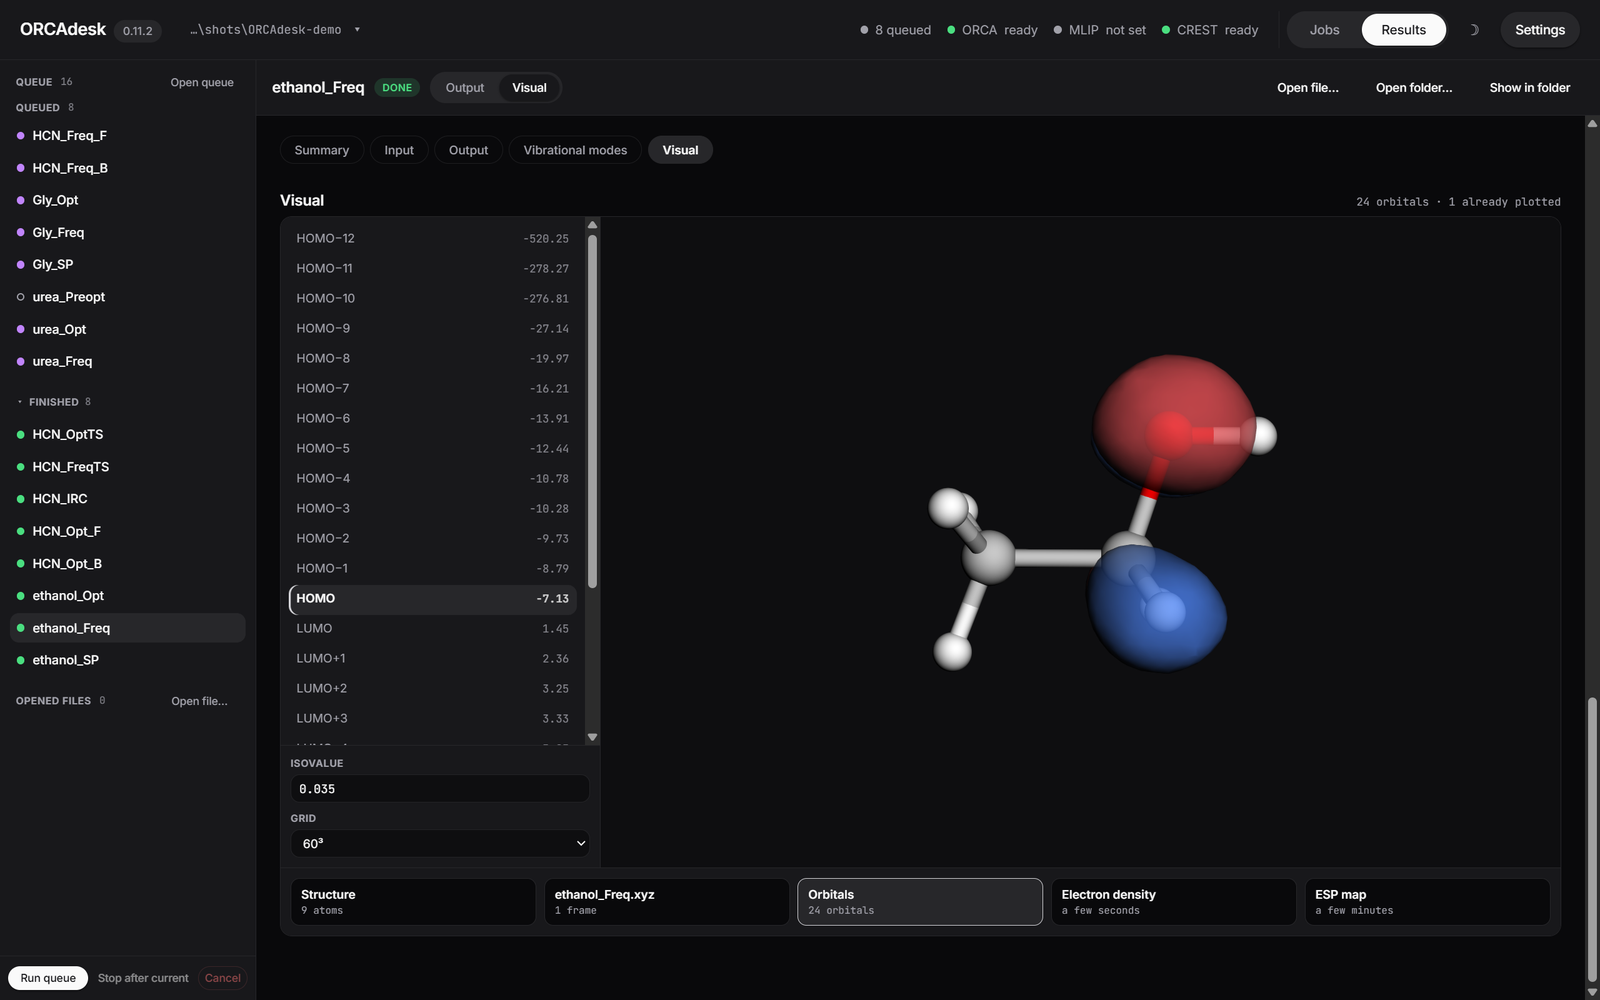
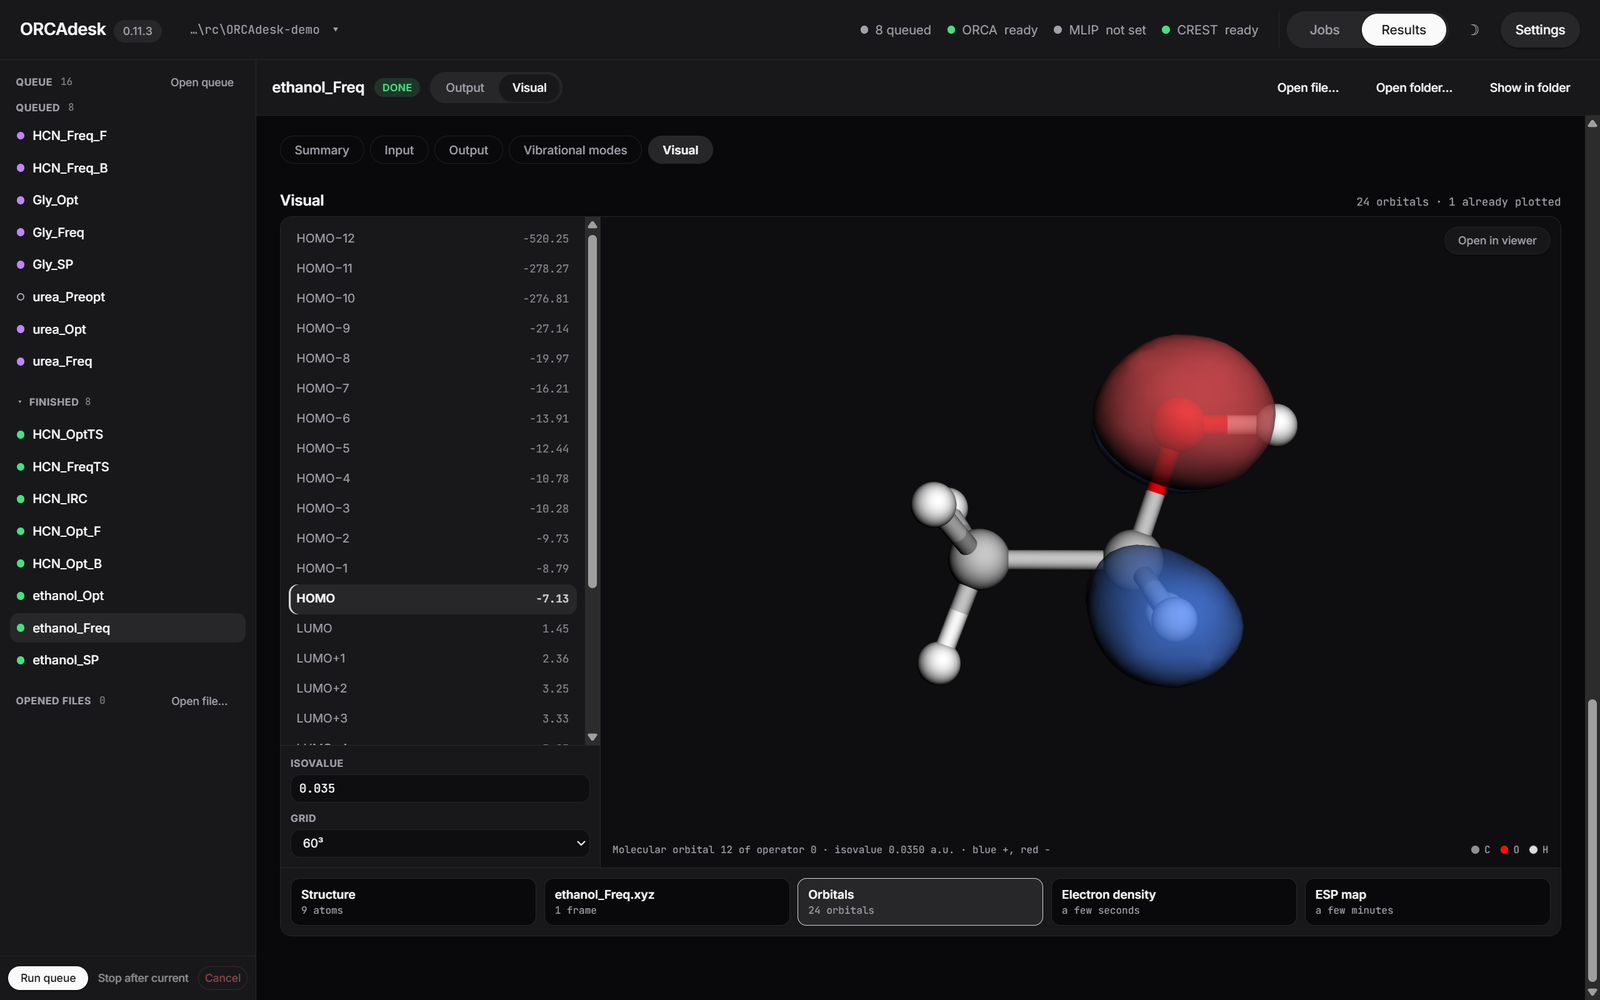
docs: refresh the README screenshots for 0.11.3
- results.png: the vibrational modes as the new IR spectrum (ethanol,
  B3LYP-D3BJ/def2-SVP), with a band's km/mol label.
- irc-picker.png, viewer.png, main-window.png: recaptured with structures
  and surfaces that fill their frame, the surface caption shown, and the
  axis marker clear of captions.
- README / README.ko.md: the Results caption follows its new screenshot.

diff --git a/README.ko.md b/README.ko.md
@@ -66,7 +66,7 @@
 | ![메인 창](docs/images/main-window.png) | ![IRC 구조 선택](docs/images/irc-picker.png) |
 | **메인 창**: 왼쪽의 큐 목록, 그리고 계산마다 실시간 수렴 그래프와 출력. | **IRC 다음 단계**: IRC 에너지 곡선에서 이어 갈 구조를 고릅니다. |
 | ![결과](docs/images/results.png) | ![3D 뷰어](docs/images/viewer.png) |
-| **결과**: 파서가 정리한 요약(여기서는 열화학)과 입력, 검색되는 출력 전체. | **3D**: 끝난 계산의 파동 함수로 그린 오비탈·전자 밀도·ESP. |
+| **결과**: IR 스펙트럼으로 그린 진동 모드. 봉우리를 누르면 그 진동이 구조 위에서 움직입니다. | **3D**: 끝난 계산의 파동 함수로 그린 오비탈·전자 밀도·ESP. |
 
 ## 설치
 

diff --git a/README.md b/README.md
@@ -71,7 +71,7 @@
 | ![Main window](docs/images/main-window.png) | ![IRC structure picker](docs/images/irc-picker.png) |
 | **Main window**: the queue strip, and every job as a cell with its live convergence and output. | **After an IRC**: choose the structure to continue from on the IRC's energy profile. |
 | ![Results](docs/images/results.png) | ![3D viewer](docs/images/viewer.png) |
-| **Results**: the summary the parser read (thermochemistry here) beside the input and the whole output, searchable. | **3D**: orbitals, densities and ESP maps from the finished wavefunction. |
+| **Results**: the vibrational modes as an IR spectrum; click a band to watch that mode move on the structure. | **3D**: orbitals, densities and ESP maps from the finished wavefunction. |
 
 ## Install
 
